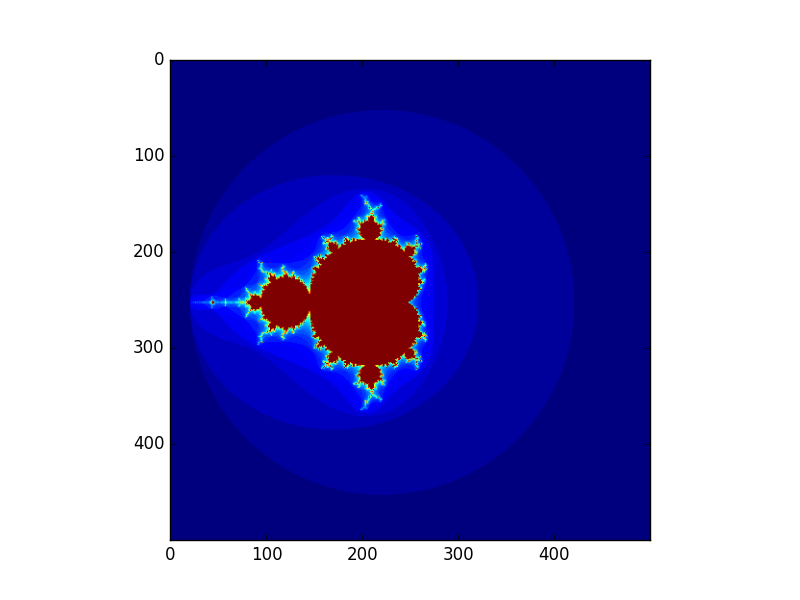
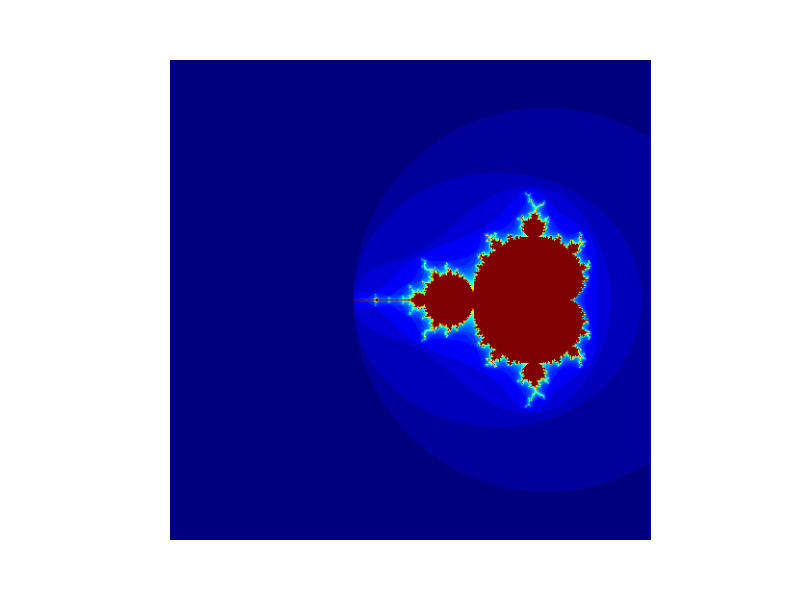
fresh examples

diff --git a/mandelbrot.py b/mandelbrot.py
@@ -5,7 +5,7 @@ RESOLUTION_DPI = .01
 ITERATIONS = 100
 ZOOM = 2
 
-CENTERX = -0.5
+CENTERX = -1.4
 CENTERY = 0
 WIDTH = 5
 HEIGH = 5
@@ -27,20 +27,20 @@ def mandelbrot(a):
 
 	return ITERATIONS # esto podría ser NaN para ser mas exactos...
 
-def computeMandelbrot():
+def computeMandelbrot(res, z, w, h, cx, cy, its):
 
 	X = arange(
-		(-(WIDTH / 2) / ZOOM) + CENTERX, 
-		((WIDTH / 2) / ZOOM) + CENTERX, 
-		RESOLUTION_DPI / ZOOM)
+		(-(w / 2) / z) + cx, 
+		((w / 2) / z) + cx, 
+		res / z)
 	Y = arange(
-		(-(HEIGH / 2) / ZOOM) - CENTERY, 
-		((HEIGH / 2) / ZOOM) - CENTERY, 
-		RESOLUTION_DPI / ZOOM)
+		(-(h / 2) / z) - cy, 
+		((h / 2) / z) - cy, 
+		res / z)
 
 
 	Z = [0.+0.j] * (len(X) * len(Y))
-	IT = [ITERATIONS] * len(Z)
+	IT = [its] * len(Z)
 	i = 0
 	for x in range(0, len(X)):
 		for y in range(0, len(Y)):
@@ -55,10 +55,14 @@ def computeMandelbrot():
 
 import time
 
-start = time.time()
-img = computeMandelbrot()
-print(time.time() - start)
+ITERATIONS = 40
+for _,ZOOM in enumerate([1,2,4,8,16,32,64,128,256,512,1024]):
+	start = time.time()
+	img = computeMandelbrot(RESOLUTION_DPI, ZOOM, WIDTH, HEIGH, CENTERX, CENTERY, ITERATIONS)
+	imshow(img)
+	axis('off')
+	#show()
 
-imshow(img)
-show()
-#savefig('mandelbrot_zoom%d_it%d.png' % (ZOOM,ITERATIONS))
+	savefig('examples/mandelbrot_zoom%d_it%d.png' % (ZOOM,ITERATIONS))
+	print(time.time() - start)
+	ITERATIONS = ITERATIONS + 20
